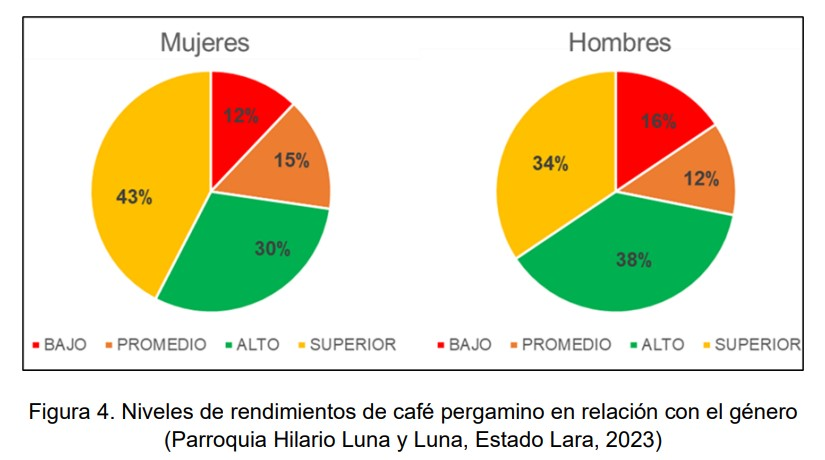
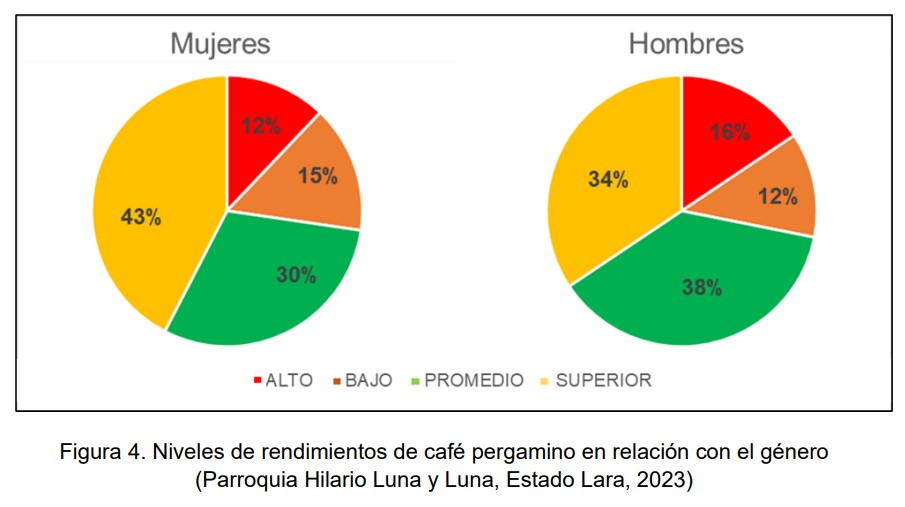
Correccion genero cafe

diff --git a/content/es/actualidades-post/genero_cafe/index.md b/content/es/actualidades-post/genero_cafe/index.md
@@ -6,7 +6,7 @@ image:
   focal_point: Smart
 type: actualidades
 draft: false
-summary: Los resultados iniciales de una investigación reciente realizada por FUSAGRI y profesores de FAGRO-UCV, con el patrocinio del IICA,  en dos territorios del eje cafetalero sureste del estado Lara, indican que existen diferencias en los niveles de rendimientos del café en los dos agroecosistemas evaluados, así como también en relación con el género. En la  Parroquia Yacambú, la mayoría de las “productoras” (57%) logran rendimientos de café en el nivel Promedio (7-12 qq/ha), mientras que el 54% de los “productores” se colocan en el nivel de rendimiento Alto (>12 qq/ha). En el caso de la Parroquia Hilario Luna y Luna, no hay diferencias destacadas en los niveles de rendimiento entre “productores” y “productoras".
+summary: Los resultados iniciales de una investigación reciente realizada por FUSAGRI y profesores de FAGRO-UCV, con el patrocinio del IICA,  en dos territorios del eje cafetalero sureste del estado Lara, indican que existen diferencias en los niveles de rendimientos del café en los dos agroecosistemas evaluados, así como también en relación con el género. En la  Parroquia Yacambú, la mayoría de las “productoras” (57%) logran rendimientos de café en el nivel Bajo (0-7 qq/ha), mientras que el 54% de los “productores” se colocan en el nivel de rendimiento Promedio (7-12 qq/ha). En el caso de la Parroquia Hilario Luna y Luna, no hay diferencias destacadas en los niveles de rendimiento entre “productores” y “productoras".
 
 tags:
 - Noticias
@@ -47,7 +47,7 @@ Destaca igualmente que  en PHLL, uno de cada cuatro productores es mujer (25,6%)
 <img src="gen_cafe.jpg" class="center-block" style="width:100%;">
 
 Cuando se examina el nivel de rendimiento en relación con el género se destacan diferencias entre las localidades estudiadas, pero también dentro de la misma (Figura 3).
-Por ejemplo, en PY, la mayoría de las “productoras” (57%) logran rendimientos de café en el nivel Promedio (7-12 qq/ha), mientras que el 54% de los “productores” se colocan en el nivel de rendimiento Alto (>12 qq/ha)
+Por ejemplo, en PY, la mayoría de las “productoras” (57%) logran rendimientos de café en el nivel Bajo (0-7 qq/ha), mientras que el 54% de los “productores” se colocan en el nivel de rendimiento Promedio (7-12 qq/ha)
 
 <img src="PY.jpg" class="center-block" style="width:100%;">
 
@@ -56,4 +56,4 @@ Pero además, sobresale el hecho de que el porcentaje de “productoras” en el
 
 <img src="PHLL.jpg" class="center-block" style="width:100%;">
 
-En consideración con esta información preliminar  y teniendo en cuenta que la importancia de la participación de la mujer en la producción de café es cada vez más reconocida en la cadena mundial de suministro, no solamente en el aspecto económico sino también en cuanto a calidad y sostenibilidad, así como también la urgencia de emprender acciones dirigidas a reducir las brechas y las desigualdades de género, de manera que conduzcan al empoderamiento y la inclusión igualitaria de las mujeres rurales en el desarrollo de los sistemas agroalimentarios, FUSAGRI y el IICA realizarán un estudio sobre el perfil de la mujer productora de café en la Parroquia Hilario Luna y Luna (municipio Moran, Estado Lara) que se aspira permita identificar casos de éxito (eficientes, sostenibles y replicables) en el proceso productivo del café.
+En consideración con esta información preliminar  y teniendo en cuenta que la importancia de la participación de la mujer en la producción de café es cada vez más reconocida en la cadena mundial de suministro, no solamente en el aspecto económico sino también en cuanto a calidad y sostenibilidad, así como también la urgencia de emprender acciones dirigidas a reducir las brechas y las desigualdades de género, de manera que conduzcan al empoderamiento y la inclusión igualitaria de las mujeres rurales en el desarrollo de los sistemas agroalimentarios, FUSAGRI y el IICA realizarán un estudio sobre el perfil de la mujer productora de café en la Parroquia Hilario Luna y Luna (Municipio Moran, Estado Lara) que se aspira permita identificar casos de éxito (eficientes, sostenibles y replicables) en el proceso productivo del café.
